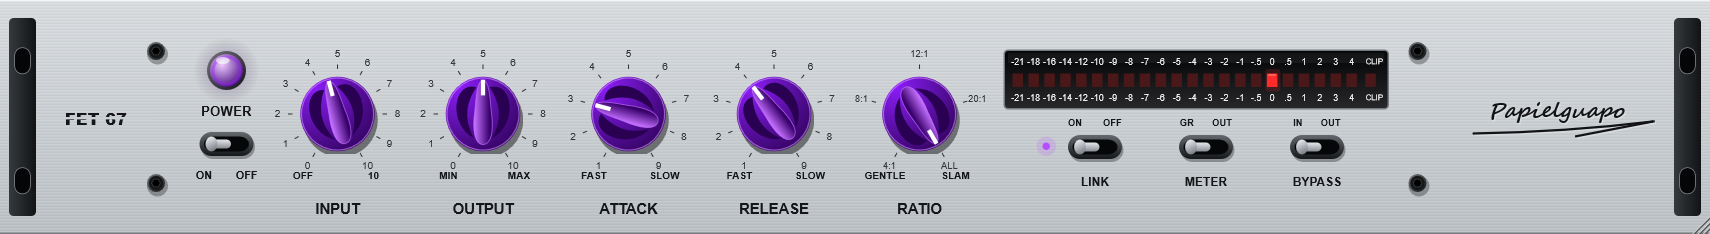
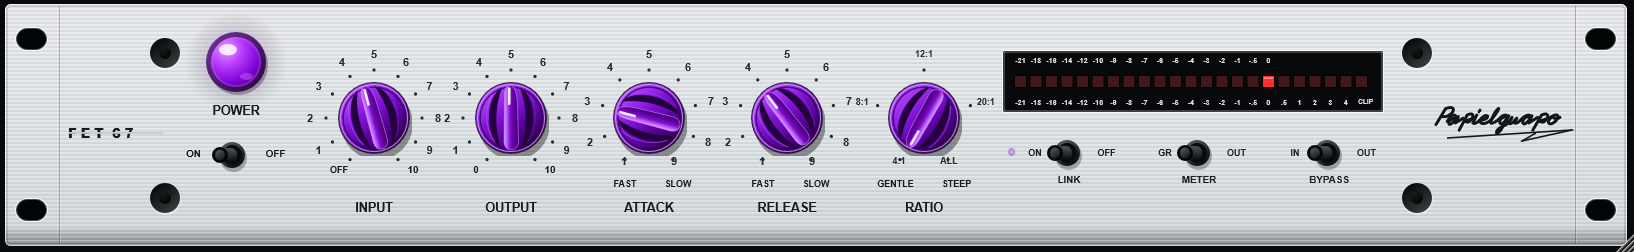
Rebuild vector front panel around supplied rack reference

diff --git a/Source/PluginEditor.cpp b/Source/PluginEditor.cpp
@@ -19,63 +19,86 @@ void text(juce::Graphics& g, const juce::String& s, float x, float y, float w, f
 }
 void screw(juce::Graphics& g, float x, float y)
 {
-    g.setColour(juce::Colours::black.withAlpha(0.3f)); g.fillEllipse(x-6,y-5,14,14);
-    g.setGradientFill(juce::ColourGradient(colour(0xff73777a),x-5,y-6,colour(0xff111315),x+5,y+6,false));
+    g.setColour(juce::Colours::white.withAlpha(0.42f)); g.fillEllipse(x-15,y-14,31,31);
+    g.setGradientFill(juce::ColourGradient(colour(0xff080b0c),x-8,y-12,colour(0xff353b3c),x+9,y+12,false));
+    g.fillEllipse(x-15,y-15,30,30);
+    g.setGradientFill(juce::ColourGradient(colour(0xff191f20),x-3,y-6,colour(0xff020404),x+4,y+5,true));
     g.fillEllipse(x-6,y-6,12,12);
-    g.setColour(colour(0xff151719)); g.fillEllipse(x-4.8f,y-4.8f,9.6f,9.6f);
-    juce::Path hex;
-    for (int i=0;i<6;++i) { const float a=static_cast<float>(i)*juce::MathConstants<float>::twoPi/6; const float px=x+2.9f*std::cos(a),py=y+2.9f*std::sin(a); if(i==0)hex.startNewSubPath(px,py);else hex.lineTo(px,py); }
-    hex.closeSubPath(); g.setColour(juce::Colours::black);g.fillPath(hex);
-    g.setColour(juce::Colours::white.withAlpha(0.2f));g.strokePath(hex,juce::PathStrokeType(0.5f));
 }
 void lamp(juce::Graphics& g, juce::Rectangle<float> r, bool on)
 {
     const auto c=r.getCentre();
     if(on) { g.setGradientFill(juce::ColourGradient(colour(0xff9b26ff).withAlpha(0.35f),c.x,c.y,juce::Colours::transparentBlack,c.x+r.getWidth()*0.85f,c.y,true));g.fillEllipse(r.expanded(r.getWidth()*0.4f)); }
-    g.setGradientFill(juce::ColourGradient(colour(0xff77757d),r.getX(),r.getY(),colour(0xff111217),r.getRight(),r.getBottom(),false));g.fillEllipse(r);
-    auto inner=r.reduced(2);
-    if(on) { g.setGradientFill(juce::ColourGradient(colour(0xfff0ccff),c.x-3,c.y-4,colour(0xff3c0078),c.x+11,c.y+6,true));g.fillEllipse(inner);g.setColour(colour(0xff9b26ff).withAlpha(0.4f));g.drawEllipse(inner.reduced(2),2); }
+    g.setColour(juce::Colours::black.withAlpha(0.3f));g.fillEllipse(r.translated(2,3));
+    g.setGradientFill(juce::ColourGradient(colour(0xff73349d),r.getX(),r.getY(),colour(0xff260438),r.getRight(),r.getBottom(),false));g.fillEllipse(r);
+    auto inner=r.reduced(5);
+    if(on) { auto jewel=juce::ColourGradient(colour(0xffdf9aff),c.x-10,c.y-13,colour(0xff490078),c.x+24,c.y+20,true);jewel.addColour(0.36,colour(0xffb839ff));jewel.addColour(0.74,colour(0xff7900ce));g.setGradientFill(jewel);g.fillEllipse(inner);g.setColour(colour(0xffdd8fff).withAlpha(0.23f));g.drawEllipse(inner.reduced(1),2); }
     else { g.setColour(colour(0xff240046));g.fillEllipse(inner); }
-    g.setColour(juce::Colours::white.withAlpha(on?0.65f:0.12f));g.fillEllipse(r.getX()+6,r.getY()+4,r.getWidth()*0.35f,r.getHeight()*0.18f);
+    g.setColour(juce::Colours::white.withAlpha(on?0.83f:0.12f));g.fillEllipse(r.getX()+13,r.getY()+12,r.getWidth()*0.30f,r.getHeight()*0.19f);
+    if(on){g.setColour(colour(0xffdc8fff).withAlpha(0.36f));g.fillEllipse(c.x+4,c.y+11,13,7);}
 }
 }
 
-void FET67LookAndFeel::drawRotarySlider(juce::Graphics& g,int x,int y,int width,int height,float pos,float start,float end,juce::Slider&)
+void FET67LookAndFeel::drawRotarySlider(juce::Graphics& g, int x, int y, int width, int height,
+                                              float pos, float start, float end, juce::Slider& slider)
 {
-    const float radius=static_cast<float>(juce::jmin(width,height))*0.46f;
-    const float cx=static_cast<float>(x)+static_cast<float>(width)*0.5f,cy=static_cast<float>(y)+static_cast<float>(height)*0.5f;
-    g.setColour(juce::Colours::black.withAlpha(0.45f));g.fillEllipse(cx-radius+2,cy-radius+4,radius*2,radius*2);
-    g.setGradientFill(juce::ColourGradient(colour(0xff8a1cf6),cx-radius*0.6f,cy-radius*0.7f,colour(0xff240046),cx+radius,cy+radius,true));g.fillEllipse(cx-radius,cy-radius,radius*2,radius*2);
-    g.setColour(colour(0xffd48fff).withAlpha(0.6f));g.drawEllipse(cx-radius+0.8f,cy-radius+0.8f,radius*2-1.6f,radius*2-1.6f,0.8f);
+    const float r = static_cast<float>(juce::jmin(width, height)) * 0.46f;
+    const float cx = static_cast<float>(x) + static_cast<float>(width) * 0.5f;
+    const float cy = static_cast<float>(y) + static_cast<float>(height) * 0.5f;
+    g.setColour(juce::Colours::black.withAlpha(0.38f));
+    g.fillEllipse(cx-r+2,cy-r+5,r*2+2,r*2+2);
+    g.setColour(colour(0xff24202c));g.fillEllipse(cx-r-1,cy-r-1,r*2+2,r*2+2);
+    auto resin=juce::ColourGradient(colour(0xffaf40ff),cx-r*0.55f,cy-r*0.75f,
+                                   colour(0xff200034),cx+r*0.8f,cy+r*0.9f,false);
+    resin.addColour(0.34,colour(0xff7e12d5));resin.addColour(0.65,colour(0xff51008e));
+    g.setGradientFill(resin);g.fillEllipse(cx-r,cy-r,r*2,r*2);
+    g.setColour(colour(0xffdd9cff).withAlpha(0.8f));g.drawEllipse(cx-r+1.4f,cy-r+1.4f,r*2-2.8f,r*2-2.8f,1.1f);
+    g.setColour(colour(0xff26003f).withAlpha(0.75f));g.drawEllipse(cx-r+4,cy-r+4,r*2-8,r*2-8,1.4f);
     juce::Graphics::ScopedSaveState save(g);
     g.addTransform(juce::AffineTransform::rotation(start+pos*(end-start)).translated(cx,cy));
-    juce::Path flutes;
-    flutes.startNewSubPath(-radius*0.18f,-radius*0.72f);
-    flutes.cubicTo(-radius*0.8f,-radius*0.9f,-radius*0.96f,radius*0.28f,-radius*0.24f,radius*0.65f);
-    flutes.cubicTo(-radius*0.56f,radius*0.1f,-radius*0.42f,-radius*0.35f,-radius*0.18f,-radius*0.72f);
-    flutes.closeSubPath();g.setColour(colour(0xff2a0052));g.fillPath(flutes);g.fillPath(flutes,juce::AffineTransform::scale(-1,1));
-    juce::Path wing;
-    wing.startNewSubPath(0,-radius*0.90f);
-    wing.cubicTo(radius*0.16f,-radius*0.90f,radius*0.18f,-radius*0.5f,radius*0.22f,-radius*0.08f);
-    wing.cubicTo(radius*0.30f,radius*0.45f,radius*0.22f,radius*0.82f,0,radius*0.82f);
-    wing.cubicTo(-radius*0.22f,radius*0.82f,-radius*0.30f,radius*0.45f,-radius*0.22f,-radius*0.08f);
-    wing.cubicTo(-radius*0.18f,-radius*0.5f,-radius*0.16f,-radius*0.90f,0,-radius*0.90f);wing.closeSubPath();
-    g.setGradientFill(juce::ColourGradient(colour(0xffc470ff),-radius*0.23f,0,colour(0xff38006b),radius*0.18f,0,false));g.fillPath(wing);
-    g.setColour(colour(0xffc470ff).withAlpha(0.65f));g.strokePath(wing,juce::PathStrokeType(0.65f));
-    g.setColour(juce::Colours::white);g.fillRect(-1.4f,-radius*0.92f,2.8f,radius*0.42f);
+    // Narrow concave channels follow the fin; the stationary resin skirt catches the light.
+    for(float side : {-1.0f,1.0f})
+    {
+        juce::Path flute;
+        flute.startNewSubPath(side*r*0.25f,-r*0.88f);
+        flute.cubicTo(side*r*0.73f,-r*0.63f,side*r*0.77f,r*0.46f,side*r*0.30f,r*0.85f);
+        flute.cubicTo(side*r*0.47f,r*0.25f,side*r*0.47f,-r*0.32f,side*r*0.25f,-r*0.88f);
+        flute.closeSubPath();g.setColour(colour(0xff25003e));g.fillPath(flute);
+        juce::Path rib;rib.startNewSubPath(side*r*0.55f,-r*0.67f);
+        rib.cubicTo(side*r*0.77f,-r*0.27f,side*r*0.73f,r*0.32f,side*r*0.48f,r*0.67f);
+        g.setColour(colour(0xffc45cff).withAlpha(side<0?0.56f:0.22f));g.strokePath(rib,juce::PathStrokeType(1.0f));
+    }
+    juce::Path fin;
+    fin.startNewSubPath(-r*0.07f,-r*0.94f);
+    fin.cubicTo(r*0.12f,-r*0.97f,r*0.18f,-r*0.70f,r*0.19f,-r*0.25f);
+    fin.lineTo(r*0.21f,r*0.58f);
+    fin.quadraticTo(r*0.24f,r*0.86f,r*0.04f,r*0.91f);
+    fin.quadraticTo(-r*0.18f,r*0.94f,-r*0.20f,r*0.68f);
+    fin.lineTo(-r*0.19f,-r*0.60f);
+    fin.quadraticTo(-r*0.19f,-r*0.89f,-r*0.07f,-r*0.94f);fin.closeSubPath();
+    auto ridge=juce::ColourGradient(colour(0xffe3a2ff),-r*0.20f,0,colour(0xff3c0065),r*0.23f,0,false);
+    ridge.addColour(0.23,colour(0xffb14cff));ridge.addColour(0.40,colour(0xff7b13c0));
+    ridge.addColour(0.63,colour(0xff6500a8));g.setGradientFill(ridge);g.fillPath(fin);
+    g.setColour(colour(0xffcc82ff).withAlpha(0.72f));g.strokePath(fin,juce::PathStrokeType(0.8f));
+    g.setColour(colour(0xfff8efff));g.fillRoundedRectangle(-r*0.09f,-r*0.87f,r*0.075f,r*0.49f,0.7f);
+    if(slider.hasKeyboardFocus(true)) {g.setColour(colour(0xffefd4ff));g.drawEllipse(-r-3,-r-3,r*2+6,r*2+6,1);}
 }
-void FET67LookAndFeel::drawToggleButton(juce::Graphics& g,juce::ToggleButton& b,bool hover,bool down)
+
+void FET67LookAndFeel::drawToggleButton(juce::Graphics& g, juce::ToggleButton& b, bool hover, bool down)
 {
-    auto r=b.getLocalBounds().toFloat().reduced(2,4);const auto c=r.getCentre();
-    g.setColour(juce::Colours::black.withAlpha(0.3f));g.fillRoundedRectangle(r.translated(1,2),r.getHeight()*0.5f);
-    g.setGradientFill(juce::ColourGradient(colour(0xff65696e),r.getX(),r.getY(),colour(0xff151719),r.getX(),r.getBottom(),false));g.fillRoundedRectangle(r,r.getHeight()*0.5f);
-    g.setColour(colour(0xff060708));g.fillRoundedRectangle(r.reduced(3),r.getHeight()*0.4f);
-    const bool right=b.getToggleState() != static_cast<bool>(b.getProperties().getWithDefault("reverse",false));
-    const float tip=c.x+(right?10.0f:-10.0f);
-    g.setGradientFill(juce::ColourGradient(colour(0xfff6f7fa),c.x,c.y-4,colour(0xff686d74),c.x,c.y+5,false));
-    g.fillRoundedRectangle(juce::jmin(c.x,tip)-3,c.y-3,std::abs(tip-c.x)+6,6,3);
-    g.setGradientFill(juce::ColourGradient(colour(0xfff0f1f4),tip-2,c.y-5,colour(0xff6a7078),tip+3,c.y+5,false));g.fillEllipse(tip-4,c.y-5,8,10);
-    if(hover||down||b.hasKeyboardFocus(true)) {g.setColour(colour(0xff9b26ff).withAlpha(0.65f));g.drawRoundedRectangle(r.expanded(1),7,1);}
+    const auto c=b.getLocalBounds().toFloat().getCentre();
+    const bool right=b.getToggleState()!=static_cast<bool>(b.getProperties().getWithDefault("reverse",false));
+    const float bx=c.x+3, tip=bx+(right?12.0f:-12.0f);
+    g.setColour(juce::Colours::black.withAlpha(0.28f));g.fillEllipse(bx-12,c.y-11,27,28);
+    g.setGradientFill(juce::ColourGradient(colour(0xff555b5e),bx-8,c.y-12,colour(0xff020506),bx+9,c.y+13,false));
+    g.fillEllipse(bx-13,c.y-13,26,26);
+    g.setColour(colour(0xff090c0d));g.fillEllipse(bx-10,c.y-10,20,20);
+    g.setGradientFill(juce::ColourGradient(colour(0xff4c555b),tip,c.y-7,colour(0xff080b0d),tip,c.y+7,false));
+    g.fillRoundedRectangle(juce::jmin(tip,bx)-5,c.y-7,std::abs(tip-bx)+10,14,6);
+    g.setColour(colour(0xff030607));g.fillEllipse(tip-8,c.y-8,16,16);
+    g.setGradientFill(juce::ColourGradient(colour(0xff515a60),tip-3,c.y-5,colour(0xff101416),tip+4,c.y+5,false));
+    g.fillEllipse(tip-5,c.y-5.5f,10,11);
+    if(hover||down||b.hasKeyboardFocus(true)){g.setColour(colour(0xffb84dff).withAlpha(0.65f));g.drawEllipse(bx-15,c.y-15,30,30,1);}
 }
 FaceplateComponent::FaceplateComponent(FET67Processor& p):processor(p)
 {
@@ -107,9 +130,12 @@ FaceplateComponent::FaceplateComponent(FET67Processor& p):processor(p)
 FaceplateComponent::~FaceplateComponent() {stopTimer();setLookAndFeel(nullptr);}
 void FaceplateComponent::resized()
 {
-    for(int i=0;i<5;++i)knobs[static_cast<size_t>(i)].setBounds(198+97*i,49,54,54);
-    switches[0].setBounds(131,84,40,24);switches[1].setBounds(710,86,40,24);
-    switches[2].setBounds(784,86,40,24);switches[3].setBounds(858,86,40,24);
+    constexpr int centres[]{374,511,649,787,924};
+    for(size_t i=0;i<knobs.size();++i)knobs[i].setBounds(centres[i]-38,80,76,76);
+    switches[0].setBounds(204,137,50,36);
+    switches[1].setBounds(1039,135,50,36);
+    switches[2].setBounds(1169,135,50,36);
+    switches[3].setBounds(1299,135,50,36);
 }
 void FaceplateComponent::timerCallback()
 {
@@ -119,74 +145,124 @@ void FaceplateComponent::timerCallback()
 }
 void FaceplateComponent::paintMeter(juce::Graphics& g)
 {
-    const juce::Rectangle<float> r(670,34,255,38);
-    g.setColour(colour(0xff747a80));g.fillRoundedRectangle(r.expanded(1),3);
-    g.setGradientFill(juce::ColourGradient(colour(0xff030405),670,34,colour(0xff27272a),670,72,false));g.fillRoundedRectangle(r,2);
+    const juce::Rectangle<float> bezel(1003,51,380,61);
+    g.setColour(juce::Colours::white.withAlpha(0.72f));g.fillRoundedRectangle(bezel.expanded(1),3);
+    g.setColour(colour(0xff08090a));g.fillRoundedRectangle(bezel,2);
+    g.setColour(colour(0xff73777b));g.drawRoundedRectangle(bezel.reduced(1),2,1);
     constexpr float values[]{-21,-18,-16,-14,-12,-10,-9,-8,-7,-6,-5,-4,-3,-2,-1,-0.5f,0,0.5f,1,2,3,4,6};
     const char* labels[]{"-21","-18","-16","-14","-12","-10","-9","-8","-7","-6","-5","-4","-3","-2","-1","-.5","0",".5","1","2","3","4","CLIP"};
-    const bool outputMode=processor.apvts.getRawParameterValue("meterMode")->load()>0.5f;
+    const bool out=processor.apvts.getRawParameterValue("meterMode")->load()>0.5f;
     const bool powered=processor.apvts.getRawParameterValue("power")->load()>0.5f;
     for(int i=0;i<23;++i)
     {
-        const float x=675+static_cast<float>(i)*10.6f+(i==22?2.0f:0.0f);
-        const bool on=powered&&(outputMode ? shownOut+18>=values[i] : i<=16&&(i==16||shownGr>=-values[i]));
-        if(on) {g.setColour(colour(0xffff2a2a).withAlpha(0.17f));g.fillRoundedRectangle(x-1,46,10,15,2);}
-        g.setColour(colour(on?0xffff2a2a:0xff4a1818));g.fillRect(x,49.0f,7.0f,9.0f);
-        if(on){g.setColour(colour(0xffffb1a1).withAlpha(0.55f));g.fillRect(x+1,49.5f,5.0f,1.0f);}
-        g.setColour(juce::Colours::white.withAlpha(0.92f));text(g,labels[i],x-2,36,i==22?16.0f:11.0f,10, i==22?5.7f:6.7f,false);text(g,labels[i],x-2,60,i==22?16.0f:11.0f,10,i==22?5.7f:6.7f,false);
+        const float x=1015+static_cast<float>(i)*15.5f;
+        const bool on=powered&&(out?shownOut+18>=values[i]:i<=16&&(i==16||shownGr>=-values[i]));
+        if(on){g.setGradientFill(juce::ColourGradient(colour(0xffff2929).withAlpha(0.45f),x+5.5f,81,juce::Colours::transparentBlack,x+18,81,true));g.fillEllipse(x-8,67,27,28);}
+        g.setColour(colour(0xff020303));g.fillRect(x-1,75.0f,13.0f,13.0f);
+        g.setColour(colour(on?0xffff3030:0xff41191c));g.fillRect(x,76.0f,11.0f,11.0f);
+        if(on){g.setColour(colour(0xffff8173));g.fillRect(x+1,77.0f,9.0f,2.0f);}
+        g.setColour(colour(0xffdfdfe1));
+        if(i<=16)text(g,labels[i],x-3,55,17,10,8.3f);
+        text(g,labels[i],x-3,97,i==22?25.0f:17.0f,10,i==22?7.4f:8.3f);
     }
-    g.setColour(juce::Colours::white.withAlpha(0.06f));g.fillRect(672.0f,35.0f,251.0f,7.0f);
 }
+
 void FaceplateComponent::paint(juce::Graphics& g)
 {
-    g.setGradientFill(juce::ColourGradient(colour(0xffd9dde0),0,0,colour(0xffbcc1c6),0,156,false));g.fillAll();
-    for(int y=0;y<156;y+=2){g.setColour(juce::Colours::white.withAlpha(0.08f));g.fillRect(0,y,1140,1);g.setColour(juce::Colours::black.withAlpha(0.03f));g.fillRect(0,y+1,1140,1);}
-    g.setColour(juce::Colours::white.withAlpha(0.65f));g.drawHorizontalLine(0,0,1140);g.setColour(colour(0xff777c81));g.drawHorizontalLine(155,0,1140);
-    for(int x:{6,1116}) {g.setGradientFill(juce::ColourGradient(colour(0xff363a3d),static_cast<float>(x),0,colour(0xff111315),static_cast<float>(x+18),0,false));g.fillRoundedRectangle(static_cast<float>(x),12,18,132,3);for(int y:{32,112}){g.setColour(colour(0xff858a8f));g.drawRoundedRectangle(static_cast<float>(x+4),static_cast<float>(y),10,17,5,1);g.setColour(colour(0xff050607));g.fillRoundedRectangle(static_cast<float>(x+4),static_cast<float>(y),10,17,5);}}
-    for(auto pt:{juce::Point<float>(104,34),{104,122},{945,34},{945,122}})screw(g,pt.x,pt.y);
-    g.setColour(colour(0xff141618));g.setFont(font("Arial Black",15.5f,juce::Font::bold));g.drawText("FET 67",26,68,76,22,juce::Justification::centred);
-    g.setColour(colour(0xffcbd0d4));g.fillRect(27.0f,78.0f,75.0f,1.6f);
-    lamp(g,{138,34,26,26},processor.apvts.getRawParameterValue("power")->load()>0.5f);
-    g.setColour(colour(0xff141618));text(g,"POWER",126,66,50,16,10);text(g,"ON        OFF",117,111,68,12,8);
+    g.fillAll(colour(0xff08090b));
+    const juce::Rectangle<float> plate(5,4,1622,242);
+    juce::Path outline;outline.addRoundedRectangle(plate,6);
+    {
+        juce::Graphics::ScopedSaveState save(g);g.reduceClipRegion(outline);
+        auto aluminium=juce::ColourGradient(colour(0xffe4e6e9),0,4,colour(0xff8a9095),0,246,false);
+        aluminium.addColour(0.08,colour(0xffe4e6e9));aluminium.addColour(0.35,colour(0xffdfe3e6));
+        aluminium.addColour(0.64,colour(0xffd9dee1));aluminium.addColour(0.92,colour(0xffd1d6da));
+        aluminium.addColour(0.96,colour(0xffa0a5aa));
+        g.setGradientFill(aluminium);g.fillRect(plate);
+        for(int y=5;y<246;++y)
+        {
+            const float alpha=y%4==0?0.28f:y%4==1?0.10f:y%4==2?0.025f:0.045f;
+            g.setColour((y%4<2?juce::Colours::white:juce::Colours::black).withAlpha(alpha));
+            g.drawHorizontalLine(y,5,1627);
+        }
+        // Subtle broad machining highlights retain the horizontal grain at any scale.
+        for(int i=0;i<12;++i){g.setColour(juce::Colours::white.withAlpha(0.012f));g.fillRect(5.0f,9.0f+static_cast<float>(i)*19,1622.0f,7.0f);}
+    }
+    g.setColour(juce::Colours::white.withAlpha(0.6f));g.drawRoundedRectangle(plate.reduced(0.5f),5,1);
+    g.setColour(juce::Colours::black.withAlpha(0.25f));g.drawRoundedRectangle(plate.reduced(2),4,1);
+    for(float x:{59.0f,1575.0f}){g.setColour(juce::Colours::black.withAlpha(0.25f));g.drawVerticalLine(static_cast<int>(x),6,244);g.setColour(juce::Colours::white.withAlpha(0.24f));g.drawVerticalLine(static_cast<int>(x+1),6,244);}
+    for(float x:{16.0f,1585.0f})for(float y:{28.0f,199.0f})
+    {
+        g.setColour(juce::Colours::white.withAlpha(0.8f));g.fillRoundedRectangle(x-1,y-1,33,24,12);
+        g.setColour(colour(0xff474d50));g.fillRoundedRectangle(x,y,31,22,11);
+        g.setColour(colour(0xff020506));g.fillRoundedRectangle(x+1,y+1,29,20,10);
+    }
+    for(auto point:{juce::Point<float>(165,53),{165,198},{1417,53},{1417,198}})screw(g,point.x,point.y);
+    g.setColour(colour(0xff15191b));g.setFont(font("Arial Black",18,juce::Font::bold));
+    g.drawText("F E T  6 7",68,121,104,23,juce::Justification::centredLeft);
+    g.setColour(colour(0xffc6cccf));g.fillRect(68.0f,132.0f,95.0f,1.8f);
+    lamp(g,{206,32,60,60},processor.apvts.getRawParameterValue("power")->load()>0.5f);
+    g.setColour(colour(0xff171c1f));text(g,"POWER",197,102,78,18,14);
+    text(g,"ON",176,145,35,17,11);text(g,"OFF",258,145,35,17,11);
+    constexpr float centres[]{374,511,649,787,924};
     const char* titles[]{"INPUT","OUTPUT","ATTACK","RELEASE","RATIO"};
-    const char* left[]{"OFF","MIN","FAST","FAST","GENTLE"};const char* right[]{"10","MAX","SLOW","SLOW","SLAM"};
     for(int i=0;i<5;++i)
     {
-        const float cx=225+97.0f*static_cast<float>(i);
-        const int steps=i==4?4:i<2?10:8;
+        const float cx=centres[i];const int steps=i==4?4:i<2?10:8;
         for(int tick=0;tick<=steps;++tick)
         {
             const float a=juce::MathConstants<float>::pi*(7.0f/6.0f+(5.0f/3.0f)*static_cast<float>(tick)/static_cast<float>(steps));
-            const auto point=[cx,a](float r){return juce::Point<float>(cx+std::sin(a)*r,76-std::cos(a)*r);};
-            auto p1=point(30),p2=point(33);g.setColour(colour(0xff34383b));g.drawLine({p1,p2},0.7f);
-            auto p=point(40);juce::String label;
-            if(i==4){const char* l[]{"4:1","8:1","12:1","20:1","ALL"};label=l[tick];}
+            const float dx=std::sin(a),dy=-std::cos(a);
+            g.setColour(colour(0xff282e30));g.fillEllipse(cx+dx*48-1.7f,118+dy*48-1.7f,3.4f,3.4f);
+            juce::String label;
+            if(i==4){const char* labels[]{"4:1","8:1","12:1","20:1","ALL"};label=labels[tick];}
             else label=juce::String(i<2?tick:tick+1);
-            text(g,label,p.x-12,p.y-5,24,10,i==4?7.0f:7.5f,false);
+            const bool endpoint=tick==0||tick==steps;
+            const float labelRadius=endpoint?50.0f:64.0f;
+            if(!(i<2&&endpoint))text(g,label,cx+dx*labelRadius-14,118+dy*labelRadius-7,28,14,i==4?10.0f:12.0f);
         }
-        g.setColour(colour(0xff141618));text(g,left[i],cx-44,111,42,12,7.5f);text(g,right[i],cx+3,111,42,12,7.5f);text(g,titles[i],cx-42,132,84,14,11);
+        g.setColour(colour(0xff171c1f));
+        if(i<2){text(g,i==0?"OFF":"0",cx-49,163,28,13,10);text(g,"10",cx+25,163,28,13,11);}
+        else if(i<4){text(g,"FAST",cx-42,177,36,14,10);text(g,"SLOW",cx+9,177,40,14,10);}
+        else{text(g,"GENTLE",cx-55,177,53,14,10);text(g,"STEEP",cx+8,177,49,14,10);}
+        text(g,titles[i],cx-64,197,128,21,14);
     }
     paintMeter(g);
-    g.setColour(colour(0xff141618));text(g,"ON        OFF",700,77,60,9,7);text(g,"GR       OUT",774,77,60,9,7);text(g,"IN       OUT",848,77,60,9,7);
-    text(g,"LINK",705,114,50,14,9);text(g,"METER",779,114,50,14,9);text(g,"BYPASS",853,114,50,14,9);
-    const bool linked=processor.apvts.getRawParameterValue("link")->load()>0.5f;
-    if(linked){g.setColour(colour(0xffb84dff).withAlpha(0.18f));g.fillEllipse(691,91,13,13);}
-    g.setColour(colour(linked?0xffb84dff:0xff382442));g.fillEllipse(695,95,5,5);
+    for(int i=0;i<3;++i)
     {
-        juce::Graphics::ScopedSaveState save(g);
-        g.addTransform(juce::AffineTransform(1,-0.19438f,15,0,1,0));
-        g.setFont(font("Segoe Script",22,juce::Font::bold));
-        g.setColour(juce::Colours::white.withAlpha(0.28f));g.drawText("Papielguapo",966,53,145,45,juce::Justification::centred);
-        g.setColour(colour(0xff111315));g.drawText("Papielguapo",965,52,145,45,juce::Justification::centred);
+        const float cx=1064+130.0f*static_cast<float>(i);
+        const char* lhs[]{"ON","GR","IN"};const char* rhs[]{"OFF","OUT","OUT"};const char* title[]{"LINK","METER","BYPASS"};
+        g.setColour(colour(0xff1b2225));text(g,lhs[i],cx-44,145,30,15,10);text(g,rhs[i],cx+25,145,35,15,10);text(g,title[i],cx-36,171,82,18,11);
     }
-    juce::Path flourish;flourish.startNewSubPath(982,89);flourish.quadraticTo(1044,88,1102,81);flourish.lineTo(1050,91);
-    g.setColour(juce::Colours::white.withAlpha(0.28f));g.strokePath(flourish,juce::PathStrokeType(1.5f),juce::AffineTransform::translation(1,1));g.setColour(colour(0xff111315));g.strokePath(flourish,juce::PathStrokeType(1.5f));
+    const bool linked=processor.apvts.getRawParameterValue("link")->load()>0.5f;
+    if(linked){g.setColour(colour(0xffbc65ff).withAlpha(0.15f));g.fillEllipse(1007,147,10,10);}
+    g.setColour(colour(0xff784a96));g.drawEllipse(1009,149,5,6,0.7f);
+    g.setColour(colour(linked?0xffd49aff:0xff665470));g.fillEllipse(1010,150,3,4);
+    // Hand-drawn vector script, independent of installed fonts.
+    juce::Path signature;
+    signature.startNewSubPath(0,22);signature.lineTo(12,2);signature.cubicTo(25,-3,25,7,13,12);signature.lineTo(7,12);
+    signature.startNewSubPath(14,18);signature.cubicTo(21,6,29,9,22,18);signature.cubicTo(18,24,13,22,18,16);signature.lineTo(28,12);signature.lineTo(24,20);signature.lineTo(34,14);
+    signature.startNewSubPath(29,29);signature.lineTo(39,10);signature.cubicTo(49,5,48,15,40,19);signature.lineTo(36,18);signature.lineTo(49,13);
+    signature.startNewSubPath(51,10);signature.lineTo(46,20);signature.quadraticTo(49,23,57,14);
+    signature.startNewSubPath(54,6);signature.lineTo(55,4);
+    signature.startNewSubPath(54,17);signature.cubicTo(66,16,67,9,61,11);signature.cubicTo(50,17,56,26,68,17);
+    signature.cubicTo(82,1,80,-3,73,8);signature.lineTo(68,19);signature.quadraticTo(68,23,78,16);
+    signature.cubicTo(86,6,93,10,86,18);signature.cubicTo(79,26,77,16,84,13);signature.lineTo(91,11);signature.lineTo(81,29);signature.cubicTo(75,37,70,29,88,22);
+    signature.lineTo(95,13);signature.lineTo(91,20);signature.quadraticTo(92,24,101,14);signature.lineTo(98,20);signature.quadraticTo(101,22,108,14);
+    signature.cubicTo(116,7,122,10,115,18);signature.cubicTo(108,26,106,17,112,13);signature.lineTo(120,11);signature.lineTo(116,20);signature.lineTo(127,13);
+    signature.startNewSubPath(121,29);signature.lineTo(132,10);signature.cubicTo(142,5,142,15,134,19);signature.lineTo(129,18);signature.lineTo(143,13);
+    signature.cubicTo(153,6,156,12,148,19);signature.cubicTo(140,25,137,17,146,12);signature.quadraticTo(149,17,155,13);
+    const auto transform=juce::AffineTransform::scale(0.80f,0.80f).translated(1436,107);
+    g.setColour(juce::Colours::white.withAlpha(0.28f));g.strokePath(signature,juce::PathStrokeType(3.0f,juce::PathStrokeType::curved,juce::PathStrokeType::rounded),transform.followedBy(juce::AffineTransform::translation(1,1)));
+    g.setColour(colour(0xff111719));g.strokePath(signature,juce::PathStrokeType(3.0f,juce::PathStrokeType::curved,juce::PathStrokeType::rounded),transform);
+    juce::Path flourish;flourish.startNewSubPath(1447,138);flourish.lineTo(1572,130);flourish.lineTo(1522,141);flourish.lineTo(1536,133);
+    g.strokePath(flourish,juce::PathStrokeType(1.6f));
 }
 FET67Editor::FET67Editor(FET67Processor& p):AudioProcessorEditor(p),processor(p),faceplate(p)
 {
-    addAndMakeVisible(faceplate);setResizable(true,true);setResizeLimits(570,78,2850,390);
+    addAndMakeVisible(faceplate);setResizable(true,true);setResizeLimits(817,126,4085,630);
     getConstrainer()->setFixedAspectRatio(static_cast<double>(kBaseWidth)/kBaseHeight);
-    const int w=juce::jlimit(570,2850,processor.editorWidth.load());setSize(w,juce::roundToInt(static_cast<double>(w)*kBaseHeight/kBaseWidth));
+    const int w=juce::jlimit(817,4085,processor.editorWidth.load());setSize(w,juce::roundToInt(static_cast<double>(w)*kBaseHeight/kBaseWidth));
 }
 void FET67Editor::resized()
 {

diff --git a/Tests/Tests.cpp b/Tests/Tests.cpp
@@ -114,9 +114,13 @@ int main(int argc,char** argv)
         if(argc>2&&juce::String(argv[1])=="--render")
         {
             FET67Processor previewProcessor;
-            auto editor=std::unique_ptr<juce::AudioProcessorEditor>(previewProcessor.createEditor());editor->setSize(1710,234);
+            auto editor=std::unique_ptr<juce::AudioProcessorEditor>(previewProcessor.createEditor());
+            const int renderWidth=argc>3?juce::String(argv[3]).getIntValue():kBaseWidth;
+            editor->setSize(renderWidth,juce::roundToInt(static_cast<double>(renderWidth)*kBaseHeight/kBaseWidth));
             const auto image=editor->createComponentSnapshot(editor->getLocalBounds());
-            juce::FileOutputStream stream{juce::File(juce::String(argv[2]))};juce::PNGImageFormat png;require(png.writeImageToStream(image,stream),"Screenshot write failed");
+            juce::FileOutputStream stream{juce::File(juce::String(argv[2]))};
+            require(stream.openedOk(),"Cannot open screenshot output");stream.setPosition(0);stream.truncate();
+            juce::PNGImageFormat png;require(png.writeImageToStream(image,stream),"Screenshot write failed");
         }
         std::cout<<"PASS: bypass, input mute, all ratios, finite output, stereo link / dual mono, state persistence, mono 44.1/96/192 kHz extreme drive\n";
     }

diff --git a/Source/PluginProcessor.cpp b/Source/PluginProcessor.cpp
@@ -180,8 +180,8 @@ void FET67Processor::setStateInformation(const void* data, int size)
         if (xml->hasTagName(apvts.state.getType()))
         {
             auto state = juce::ValueTree::fromXml(*xml);
-            editorWidth.store(juce::jlimit(570, 2850, static_cast<int>(state.getProperty("editorWidth", 1140))));
-            editorHeight.store(juce::jlimit(78, 390, static_cast<int>(state.getProperty("editorHeight", 156))));
+            editorWidth.store(juce::jlimit(817, 4085, static_cast<int>(state.getProperty("editorWidth", 1634))));
+            editorHeight.store(juce::jlimit(126, 630, static_cast<int>(state.getProperty("editorHeight", 252))));
             apvts.replaceState(state);
         }
 }

diff --git a/Source/PluginProcessor.h b/Source/PluginProcessor.h
@@ -31,7 +31,7 @@ public:
     static juce::AudioProcessorValueTreeState::ParameterLayout makeParameters();
     juce::AudioProcessorValueTreeState apvts;
     std::atomic<float> currentGrDb { 0.0f }, currentOutDb { -100.0f };
-    std::atomic<int> editorWidth { 1140 }, editorHeight { 156 };
+    std::atomic<int> editorWidth { 1634 }, editorHeight { 252 };
 private:
     struct HighPass
     {

diff --git a/Source/PluginEditor.h b/Source/PluginEditor.h
@@ -2,7 +2,7 @@
 #include "PluginProcessor.h"
 #include <juce_gui_basics/juce_gui_basics.h>
 
-inline constexpr int kBaseWidth = 1140, kBaseHeight = 156;
+inline constexpr int kBaseWidth = 1634, kBaseHeight = 252;
 
 class FET67LookAndFeel final : public juce::LookAndFeel_V4
 {

diff --git a/README.md b/README.md
@@ -1,8 +1,14 @@
 # FET 67 — Papielguapo
 
-![Interfaz del plugin FET 67: frontal de aluminio con controles ultravioleta y medidor LED](Preview.png)
+![Interfaz del plugin FET 67: frontal de aluminio con controles ultravioleta y medidor LED](Preview-v1.1.png)
 
 Compresor FET mono/estéreo, C++17, JUCE 9.0.5, VST3 y Standalone Windows x64. Código completo, gráficos vectoriales sin imágenes externas y ganancia de entrada/salida exclusivamente manual. Identificadores: fabricante `Papi`, plugin `Ft67`.
+
+## Frontal 1.1
+
+El frontal sigue la referencia visual proporcionada: panel con ranuras horizontales, tornillos negros, piloto violeta grande, cinco mandos esculpidos, palancas oscuras y medidor horizontal. Se reconstruye con vectores y conserva los controles y el medidor funcionales. La firma se dibuja como trazos vectoriales y la marca continúa siendo FET 67. La referencia original se conserva en `Reference/AppearanceTarget.png` para comparar; no se utiliza como imagen de fondo del plugin.
+
+La proporción del lienzo es ahora 1634 × 252, con límites 817 × 126 y 4085 × 630 (50–250 %). La escala del sistema y las posiciones actuales de los controles afectan a la captura; no se afirma identidad píxel a píxel.
 
 ## Probar los binarios
 
@@ -35,7 +41,7 @@ Los resultados se generan en `build/FET67_artefacts/Release/VST3` y `build/FET67
 - Transformador de entrada con curva tanh, HP de 18 Hz; asimetría FET dependiente de GR, compensación polinómica LN y bloqueo DC de 20 Hz. La salida tiene ganancia manual y limitación suave por encima de la rodilla de calibración +18 dBu.
 - Link comparte el máximo de los dos detectores. Apagado permite detección dual mono. Los estados se mantienen separados y el cambio de enlace se interpola.
 - Meter GR marca 0 hacia la izquierda; OUT utiliza RMS suavizado, con 0 = −18 dBFS RMS. El LED CLIP ocupa el siguiente escalón del rango de visualización (+6 respecto a esa referencia), no es un medidor de true peak. No existe una conversión única de RMS a pico para todas las señales: la referencia −12 dBFS pico supone 6 dB de crest factor.
-- El editor usa un lienzo lógico 1140 × 156 y transformación afín, con escala del 50 al 250 %. El tamaño se guarda en el estado del plugin. Doble clic en un knob restaura su valor; el popup muestra el valor, tiempos o ratio.
+- El editor usa un lienzo lógico 1634 × 252 y transformación afín, con escala del 50 al 250 %. El tamaño se guarda en el estado del plugin. Doble clic en un knob restaura su valor; el popup muestra el valor, tiempos o ratio.
 
 ## Pruebas y mediciones de referencia
 
